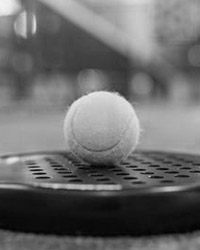
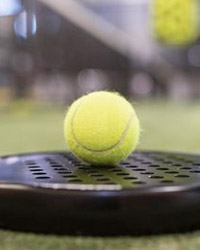
css cards

diff --git a/client/components/cards/Cards.jsx b/client/components/cards/Cards.jsx
@@ -2,7 +2,7 @@ import React from "react";
 import Card from "../card/Card";
 import styles from "./Cards.module.css";
 import soccer from '../../assets/images/soccer.jpg'
-import tennis from "../../assets/images/tennis.jpg"
+import tennis from "../../assets/images/tenniscolor.jpg"
 import basket from "../../assets/images/basket.jpg"
 import hockey from "../../assets/images/hockey.jpg"
 import volley from "../../assets/images/volley.jpg"

diff --git a/client/components/card/Card.module.css b/client/components/card/Card.module.css
@@ -13,6 +13,7 @@
   justify-content: center;
   align-items: center;
   box-shadow: -5px 5px 0px 2px rgba(0,0,0,0.75);
+  filter: grayscale(100%)
  }
  
  .cardDetails {
@@ -57,6 +58,8 @@
   cursor: pointer;
   scale: 110%;
   box-shadow: -3px 3px 11px 2px rgba(0,0,0,0.75);
+  filter: grayscale(0%)
+  
  }
  
  .card:hover .cardButton {
